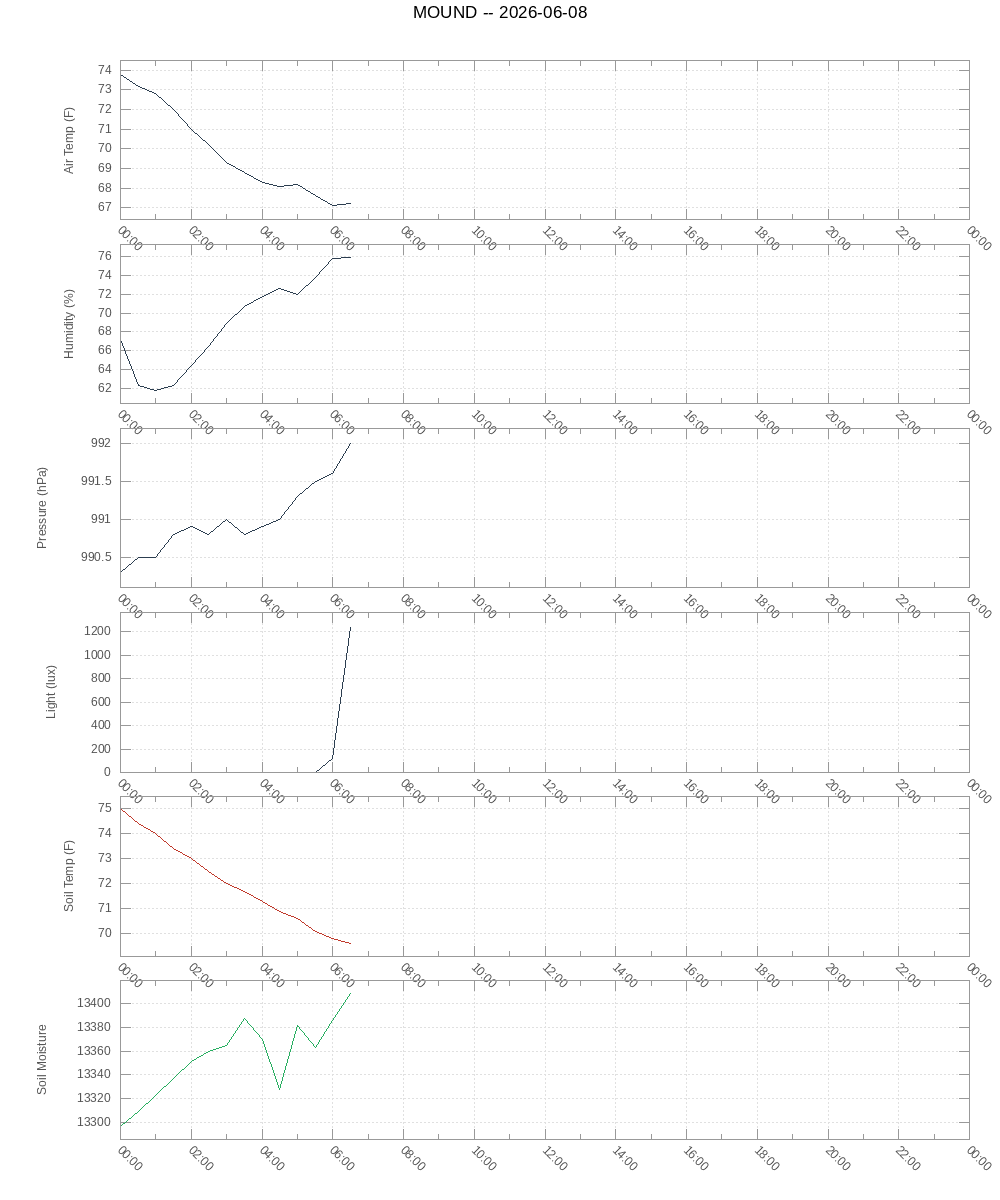
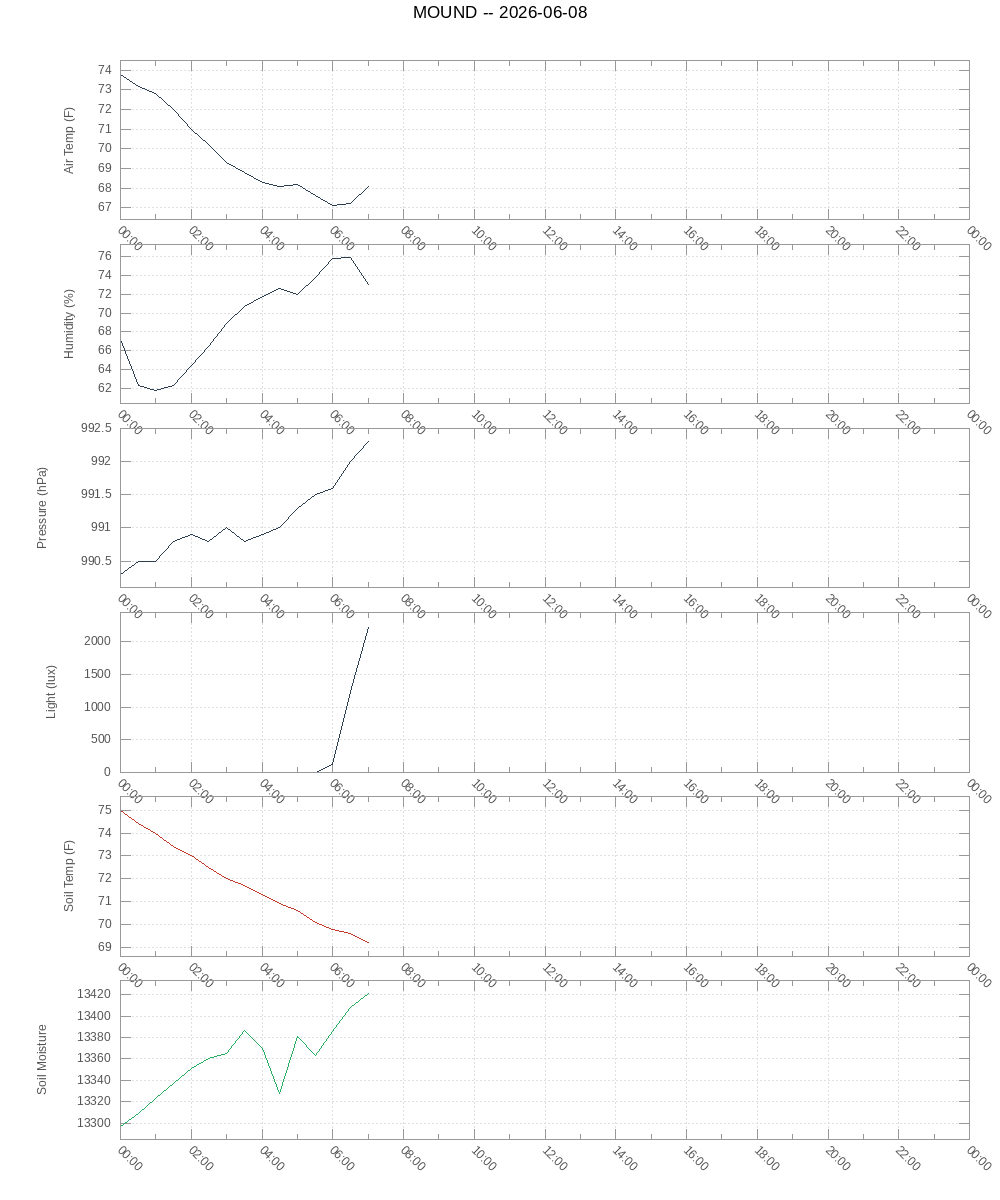
Dynamic graph ranges, archive fix, update_site delegates to generate_graphs

diff --git a/page/index.html b/page/index.html
@@ -38,14 +38,14 @@
 
       <hr style="border:none; border-top: 1px solid #ccc; margin: 1rem 0;">
 
-      <p><strong>Last reading:</strong> 2026-06-08 06:30:05</p>
+      <p><strong>Last reading:</strong> 2026-06-08 07:00:05</p>
 
       <table style="border:none; border-collapse:collapse; font-family:inherit; font-size:inherit; color:inherit;">
-        <tr><td style="padding: 0.2rem 1.5rem 0.2rem 0;">Air Temperature</td><td>67.2 F</td></tr>
-        <tr><td style="padding: 0.2rem 1.5rem 0.2rem 0;">Humidity</td><td>75.9%</td></tr>
-        <tr><td style="padding: 0.2rem 1.5rem 0.2rem 0;">Pressure</td><td>992.0 hPa</td></tr>
-        <tr><td style="padding: 0.2rem 1.5rem 0.2rem 0;">Light</td><td>1241 lux</td></tr>
-        <tr><td style="padding: 0.2rem 1.5rem 0.2rem 0;">Soil Temperature</td><td>69.6 F</td></tr>
+        <tr><td style="padding: 0.2rem 1.5rem 0.2rem 0;">Air Temperature</td><td>68.1 F</td></tr>
+        <tr><td style="padding: 0.2rem 1.5rem 0.2rem 0;">Humidity</td><td>73.1%</td></tr>
+        <tr><td style="padding: 0.2rem 1.5rem 0.2rem 0;">Pressure</td><td>992.3 hPa</td></tr>
+        <tr><td style="padding: 0.2rem 1.5rem 0.2rem 0;">Light</td><td>2227 lux</td></tr>
+        <tr><td style="padding: 0.2rem 1.5rem 0.2rem 0;">Soil Temperature</td><td>69.2 F</td></tr>
         <tr><td style="padding: 0.2rem 1.5rem 0.2rem 0;">Soil Moisture</td><td>Moist</td></tr>
         <tr><td style="padding: 0.2rem 1.5rem 0.2rem 0;">Rain</td><td>No</td></tr>
       </table>
@@ -85,7 +85,8 @@
 
       <p><strong>Daily Archive</strong></p>
       <ul style="list-style:none; padding:0;">
-<li>No archive yet.</li>
+<li><a href="graphs/archive/2026-06-07.png">2026-06-07</a></li>
+
       </ul>
 
     </blockquote>

diff --git a/scripts/update_site.py b/scripts/update_site.py
@@ -1,6 +1,8 @@
 import subprocess
 import os
+import time
 from datetime import datetime, timedelta
+time.sleep(10)  # wait for log_sensors.py to finish
 
 today = datetime.now().strftime('%Y-%m-%d')
 month = datetime.now().strftime('%Y-%m')
@@ -89,14 +91,7 @@ unset multiplot
 """
 
 # -- Generate today's graph -------------------------------
-preprocess(data_file, clean_file, date_filter=today)
-gp = make_gp_script(clean_file, graph_out,
-                     f'MOUND — {today}',
-                     f'{today}T00:00:00',
-                     f'{today}T23:59:59')
-with open(gp_file, 'w') as f:
-    f.write(gp)
-subprocess.run(['gnuplot', gp_file])
+subprocess.run(['python', '/home/ramblinray/mound/scripts/generate_graphs.py'])
 print("Today's graph generated!")
 
 # -- Archive today's graph at midnight --------------------

diff --git a/scripts/generate_page.py b/scripts/generate_page.py
@@ -91,7 +91,7 @@ with open(json_path, 'w') as f:
     json.dump(latest_data, f)
 
 # -- Build archive list -----------------------------------
-archive_dir = '/var/www/html/mound/graphs/archive'
+archive_dir = '/home/ramblinray/mound/graphs/archive'
 archive_links = ''
 try:
     files = sorted(os.listdir(archive_dir), reverse=True)